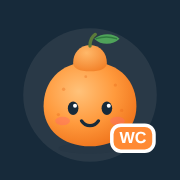
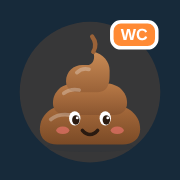
제주시/서귀포시 필터, 언어 국기, 똥 음성, 똥글이 마스코트
Claude-Session: https://claude.ai/code/session_01JSmxVuWfukSifyxiD32poQ

diff --git a/js/i18n.js b/js/i18n.js
@@ -1,5 +1,5 @@
 // 제주 공중화장실 — 다국어 사전 (KO / EN / ZH / JA)
-export const LANG_LABELS = { ko: "한국어", en: "EN", zh: "中文", ja: "日本語" };
+export const LANG_LABELS = { ko: "🇰🇷 한국어", en: "🇺🇸 EN", zh: "🇨🇳 中文", ja: "🇯🇵 日本語" };
 export const HTML_LANG = { ko: "ko-KR", en: "en-US", zh: "zh-CN", ja: "ja-JP" };
 
 export const DICT = {
@@ -8,9 +8,9 @@ export const DICT = {
     common: { close: "닫기", available: "있음", unavailable: "없음", unknown: "정보 없음", km: "km", meters: "m", official: "제주 공식 데이터", more: "더 보기" },
     header: { language: "언어 선택", skip: "지도와 검색으로 바로가기" },
     search: { label: "화장실 검색", placeholder: "장소, 화장실 이름, 주소 검색", results: "곳", noResults: "조건에 맞는 화장실이 없어요", clear: "검색 지우기" },
-    filters: { label: "편의시설 필터", all: "전체", openNow: "지금 이용", open24h: "24시간", wheelchair: "휠체어", diaper: "기저귀 교환대", emergency: "비상벨", olle: "올레길" },
+    filters: { label: "편의시설 필터", all: "전체", openNow: "지금 이용", open24h: "24시간", wheelchair: "휠체어", diaper: "기저귀 교환대", emergency: "비상벨", olle: "올레길", jejuCity: "제주시", seogwipo: "서귀포시" },
     map: { label: "제주 공중화장실 지도", locate: "내 위치로 이동", locationFound: "현재 위치를 찾았어요", locationFallback: "위치를 확인할 수 없어 제주시청을 기준으로 보여드려요", toiletMarker: "화장실 위치", officialCount: "곳 · 공식 데이터", offline: "지도를 불러오지 못해 간단 지도로 보여드려요" },
-    mascot: { name: "귤랑이", prompt: "톡 누르면 바로 장실!", sound: "장실!", aria: "귤랑이 음성 재생: 장실!" },
+    mascot: { name: "똥글이", prompt: "톡 누르면 바로 똥!", sound: "똥!", aria: "똥글이 음성 재생: 똥!" },
     detail: { distance: "현재 위치에서", walk: "도보", drive: "차량", minutes: "분", estimate: "예상", hours: "운영시간", open: "이용 가능", closed: "운영 종료", unknownStatus: "운영 확인 필요", limited: "시간제 운영", maintenance: "점검·운영중지", microTip: "찾아가는 팁", tipTemplate: "{type} 시설 안에 있어요. 현장 화장실 안내 표지를 확인하세요.", facilities: "접근성·시설", safety: "안전·보안", tourism: "제주 여행 편의", cleanliness: "청결 만족도", noReviews: "아직 평가가 없어요", reviews: "개 후기", yourRating: "나의 별점", rate: "점 주기", ratingSaved: "별점이 저장되었어요", reviewPlaceholder: "예: 깨끗하고 휴지가 넉넉해요", submitReview: "후기 등록", reviewSaved: "한줄 후기가 저장되었어요", reviewRequired: "별점과 한줄 후기를 입력해 주세요", reviewLocal: "후기는 이 기기에만 저장돼요", directions: "길찾기", google: "Google 지도", kakao: "카카오맵", naver: "네이버지도", updated: "데이터 기준", report: "정보 수정 제안", reportMessage: "현장과 공식 정보가 다르면 관리기관에 알려 주세요.", geocoded: "위치는 주소로 찾은 좌표예요. 현장과 조금 다를 수 있어요." },
     facilities: { wheelchair: "휠체어·장애인 화장실", genderSeparated: "남녀 분리", diaper: "기저귀 교환대", toddlerSeat: "어린이용 변기", toiletPaper: "화장지", bidet: "비데", emergency: "비상벨", emergencyLinked: "긴급기관 연계", illegalCamera: "불법촬영 점검", safetyMirror: "안심거울", cctv: "입구 CCTV", open24h: "24시간 운영", olle: "제주올레", parking: "주차장", ev: "전기차 충전" },
     nav: { map: "지도", list: "홈", guide: "이용 안내" },
@@ -23,9 +23,9 @@ export const DICT = {
     common: { close: "Close", available: "Available", unavailable: "Not available", unknown: "No data", km: "km", meters: "m", official: "Official Jeju data", more: "Show more" },
     header: { language: "Select language", skip: "Skip to map and search" },
     search: { label: "Search toilets", placeholder: "Search place, toilet, or address", results: "places", noResults: "No toilets match these filters", clear: "Clear search" },
-    filters: { label: "Facility filters", all: "All", openNow: "Open now", open24h: "24 hours", wheelchair: "Wheelchair", diaper: "Baby change", emergency: "Emergency bell", olle: "Olle Trail" },
+    filters: { label: "Facility filters", all: "All", openNow: "Open now", open24h: "24 hours", wheelchair: "Wheelchair", diaper: "Baby change", emergency: "Emergency bell", olle: "Olle Trail", jejuCity: "Jeju City", seogwipo: "Seogwipo" },
     map: { label: "Jeju public toilet map", locate: "Go to my location", locationFound: "Your location was found", locationFallback: "Location unavailable. Showing distances from Jeju City Hall", toiletMarker: "Toilet location", officialCount: "official records", offline: "Map tiles unavailable — showing a simple map" },
-    mascot: { name: "Gyul-rang", prompt: "Tap for instant Jang-sil!", sound: "Jang-sil!", aria: "Play Gyul-rang's voice: Jang-sil!" },
+    mascot: { name: "Ddonggeul", prompt: "Tap for an instant Ddong!", sound: "Ddong!", aria: "Play Ddonggeul's voice: Ddong!" },
     detail: { distance: "from your location", walk: "walk", drive: "drive", minutes: " min", estimate: "est.", hours: "Opening hours", open: "Open now", closed: "Closed", unknownStatus: "Check hours", limited: "Limited hours", maintenance: "Maintenance/closed", microTip: "Location tip", tipTemplate: "Located at a facility of type: {type}. Look for restroom signs on site.", facilities: "Access & facilities", safety: "Safety & security", tourism: "Jeju travel", cleanliness: "Cleanliness rating", noReviews: "No ratings yet", reviews: "reviews", yourRating: "Your rating", rate: "stars", ratingSaved: "Your rating was saved", reviewPlaceholder: "e.g. Clean and well-supplied", submitReview: "Post review", reviewSaved: "Your one-line review was saved", reviewRequired: "Add a star rating and one-line review", reviewLocal: "Reviews are saved on this device only", directions: "Directions", google: "Google Maps", kakao: "Kakao Map", naver: "Naver Map", updated: "Data date", report: "Suggest an update", reportMessage: "Contact the managing organization if the official record differs from the site.", geocoded: "Location estimated from the address and may be slightly off." },
     facilities: { wheelchair: "Wheelchair/disabled toilet", genderSeparated: "Male/female separated", diaper: "Diaper station", toddlerSeat: "Child toilet", toiletPaper: "Toilet paper", bidet: "Bidet", emergency: "Emergency bell", emergencyLinked: "Emergency-system link", illegalCamera: "Hidden-camera checked", safetyMirror: "Safety mirror", cctv: "Entrance CCTV", open24h: "Open 24/7", olle: "Jeju Olle", parking: "Parking", ev: "EV charging" },
     nav: { map: "Map", list: "Home", guide: "Guide" },
@@ -38,9 +38,9 @@ export const DICT = {
     common: { close: "关闭", available: "有", unavailable: "无", unknown: "暂无数据", km: "公里", meters: "米", official: "济州官方数据", more: "查看更多" },
     header: { language: "选择语言", skip: "直接前往地图和搜索" },
     search: { label: "搜索厕所", placeholder: "搜索地点、厕所名称或地址", results: "处", noResults: "没有符合条件的厕所", clear: "清除搜索" },
-    filters: { label: "设施筛选", all: "全部", openNow: "正在开放", open24h: "24小时", wheelchair: "轮椅通行", diaper: "尿布台", emergency: "紧急铃", olle: "偶来小路" },
+    filters: { label: "设施筛选", all: "全部", openNow: "正在开放", open24h: "24小时", wheelchair: "轮椅通行", diaper: "尿布台", emergency: "紧急铃", olle: "偶来小路", jejuCity: "济州市", seogwipo: "西归浦市" },
     map: { label: "济州公共厕所地图", locate: "前往我的位置", locationFound: "已找到您的位置", locationFallback: "无法获取位置，距离以济州市厅为基准", toiletMarker: "厕所位置", officialCount: "条官方数据", offline: "无法加载地图，显示简易地图" },
-    mascot: { name: "橘朗", prompt: "点击立即播放 Jang-sil!", sound: "Jang-sil!", aria: "播放橘朗语音 Jang-sil" },
+    mascot: { name: "便便君", prompt: "点一下就“咚”！", sound: "Ddong!", aria: "播放便便君语音 Ddong" },
     detail: { distance: "距您的位置", walk: "步行", drive: "驾车", minutes: "分钟", estimate: "预计", hours: "开放时间", open: "正在开放", closed: "已关闭", unknownStatus: "请确认时间", limited: "限时开放", maintenance: "维护/暂停", microTip: "位置提示", tipTemplate: "设施类型：{type}。请留意现场厕所指示牌。", facilities: "无障碍与设施", safety: "安全与安保", tourism: "济州旅行", cleanliness: "清洁评分", noReviews: "暂无评分", reviews: "条评价", yourRating: "您的评分", rate: "星", ratingSaved: "评分已保存", reviewPlaceholder: "例如：干净且用品充足", submitReview: "提交评价", reviewSaved: "一句话评价已保存", reviewRequired: "请选择星级并填写一句话评价", reviewLocal: "评价仅保存在本设备", directions: "路线", google: "Google 地图", kakao: "Kakao 地图", naver: "Naver 地图", updated: "数据日期", report: "建议更新信息", reportMessage: "若现场与官方记录不同，请联系管理机构。", geocoded: "位置根据地址推算，可能略有偏差。" },
     facilities: { wheelchair: "轮椅/无障碍厕所", genderSeparated: "男女分开", diaper: "尿布台", toddlerSeat: "儿童坐便器", toiletPaper: "卫生纸", bidet: "智能马桶", emergency: "紧急呼叫铃", emergencyLinked: "紧急系统联动", illegalCamera: "偷拍设备检查", safetyMirror: "安全镜", cctv: "入口监控", open24h: "24小时开放", olle: "济州偶来", parking: "停车场", ev: "电动车充电" },
     nav: { map: "地图", list: "首页", guide: "使用指南" },
@@ -53,9 +53,9 @@ export const DICT = {
     common: { close: "閉じる", available: "あり", unavailable: "なし", unknown: "情報なし", km: "km", meters: "m", official: "済州公式データ", more: "もっと見る" },
     header: { language: "言語を選択", skip: "地図と検索へ移動" },
     search: { label: "トイレを検索", placeholder: "場所・トイレ名・住所を検索", results: "件", noResults: "条件に合うトイレがありません", clear: "検索をクリア" },
-    filters: { label: "設備フィルター", all: "すべて", openNow: "営業中", open24h: "24時間", wheelchair: "車いす", diaper: "おむつ交換台", emergency: "非常ベル", olle: "オルレ" },
+    filters: { label: "設備フィルター", all: "すべて", openNow: "営業中", open24h: "24時間", wheelchair: "車いす", diaper: "おむつ交換台", emergency: "非常ベル", olle: "オルレ", jejuCity: "済州市", seogwipo: "西帰浦市" },
     map: { label: "済州公衆トイレ地図", locate: "現在地へ移動", locationFound: "現在地を確認しました", locationFallback: "位置情報を取得できないため、済州市庁からの距離を表示します", toiletMarker: "トイレの場所", officialCount: "件の公式データ", offline: "地図を読み込めないため簡易地図を表示します" },
-    mascot: { name: "ギュルラン", prompt: "タップですぐチャンシル！", sound: "チャンシル！", aria: "ギュルランの音声を再生：チャンシル！" },
+    mascot: { name: "トングリ", prompt: "タップですぐトン！", sound: "トン！", aria: "トングリの音声を再生：トン！" },
     detail: { distance: "現在地から", walk: "徒歩", drive: "車", minutes: "分", estimate: "目安", hours: "営業時間", open: "営業中", closed: "営業時間外", unknownStatus: "時間を要確認", limited: "時間限定", maintenance: "点検・休止", microTip: "場所のヒント", tipTemplate: "施設の種類：{type}。現地のトイレ案内表示をご確認ください。", facilities: "バリアフリー・設備", safety: "安全・防犯", tourism: "済州旅行", cleanliness: "清潔度評価", noReviews: "まだ評価がありません", reviews: "件の口コミ", yourRating: "あなたの評価", rate: "つ星", ratingSaved: "評価を保存しました", reviewPlaceholder: "例：清潔で備品も十分です", submitReview: "口コミ投稿", reviewSaved: "ひとこと口コミを保存しました", reviewRequired: "星評価とひとことを入力してください", reviewLocal: "口コミはこの端末にのみ保存されます", directions: "経路案内", google: "Google マップ", kakao: "Kakaoマップ", naver: "NAVERマップ", updated: "データ基準日", report: "情報の修正を提案", reportMessage: "現地と公式情報が異なる場合は管理機関へご連絡ください。", geocoded: "位置は住所から推定しています。多少ずれる場合があります。" },
     facilities: { wheelchair: "車いす・障害者トイレ", genderSeparated: "男女別", diaper: "おむつ交換台", toddlerSeat: "子ども用便器", toiletPaper: "トイレットペーパー", bidet: "温水洗浄便座", emergency: "非常ベル", emergencyLinked: "緊急システム連携", illegalCamera: "盗撮点検", safetyMirror: "安心ミラー", cctv: "入口CCTV", open24h: "24時間営業", olle: "済州オルレ", parking: "駐車場", ev: "EV充電" },
     nav: { map: "地図", list: "ホーム", guide: "利用案内" },

diff --git a/js/app.js b/js/app.js
@@ -16,6 +16,7 @@ const state = {
   view: "list",
   query: "",
   filter: "all",
+  region: "all",
   toilets: [],
   meta: null,
   loadError: null,
@@ -83,6 +84,7 @@ function filtered() {
   return state.toilets
     .filter((x) => {
       if (q && ![x.name, x.address, x.lotAddress, x.dong, x.type, x.org, x.olle ? `올레 olle ${x.olle}` : ""].some((v) => String(v || "").toLowerCase().includes(q))) return false;
+      if (state.region !== "all" && x.provider !== state.region) return false;
       switch (state.filter) {
         case "openNow": return isOpenNow(x) === true;
         case "open24h": return x.open24h;
@@ -108,19 +110,32 @@ const dirUrls = (x) => {
 };
 
 // ---------- 소리 (귤랑이) ----------
-const voice = new Audio("jangsil.wav");
-voice.preload = "auto";
-function speakFallback() {
+// 똥글이 소리: 짧은 "뽁" 효과음 + 음성 "똥!" (ddong.mp3 녹음 파일을 넣으면 그걸 우선 재생)
+let customVoice = null;
+fetch("ddong.mp3", { method: "HEAD" }).then((r) => { if (r.ok) { customVoice = new Audio("ddong.mp3"); customVoice.preload = "auto"; } }).catch(() => {});
+let actx = null;
+function popSound() {
+  try {
+    actx = actx || new (window.AudioContext || window.webkitAudioContext)();
+    if (actx.state === "suspended") actx.resume();
+    const o = actx.createOscillator(), g = actx.createGain(), now = actx.currentTime;
+    o.type = "sine"; o.frequency.setValueAtTime(520, now); o.frequency.exponentialRampToValueAtTime(140, now + 0.16);
+    g.gain.setValueAtTime(0.0001, now); g.gain.exponentialRampToValueAtTime(0.35, now + 0.01); g.gain.exponentialRampToValueAtTime(0.0001, now + 0.18);
+    o.connect(g).connect(actx.destination); o.start(now); o.stop(now + 0.2);
+  } catch {}
+}
+function speakDdong() {
   if (!("speechSynthesis" in window)) return;
   speechSynthesis.cancel();
-  const u = new SpeechSynthesisUtterance("장실!");
-  u.lang = "ko-KR"; u.pitch = 1.75; u.rate = 1.25;
+  const u = new SpeechSynthesisUtterance("똥!");
+  u.lang = "ko-KR"; u.pitch = 1.6; u.rate = 1.2;
   const v = speechSynthesis.getVoices().find((v) => v.lang.toLowerCase().startsWith("ko"));
   if (v) u.voice = v;
   speechSynthesis.speak(u);
 }
 function playMascot(el) {
-  try { voice.pause(); voice.currentTime = 0; voice.play().catch(speakFallback); } catch { speakFallback(); }
+  if (customVoice) { try { customVoice.pause(); customVoice.currentTime = 0; customVoice.play().catch(() => { popSound(); speakDdong(); }); } catch { popSound(); speakDdong(); } }
+  else { popSound(); speakDdong(); }
   $("#live").textContent = t("mascot.sound");
   document.querySelectorAll(".mascot-btn, .mascot-round").forEach((b) => b.classList.add("speaking"));
   document.querySelectorAll(".bubble strong").forEach((s) => (s.textContent = t("mascot.sound")));
@@ -167,9 +182,14 @@ function fillIcons(root = document) {
   root.querySelectorAll("[data-icon]").forEach((el) => { el.outerHTML = icon(el.dataset.icon); });
 }
 
-const FILTERS = [["all", "sparkles"], ["openNow", "clock"], ["open24h", "clock"], ["wheelchair", "wheelchair"], ["diaper", "baby"], ["emergency", "bell"], ["olle", "feet"]];
+const REGIONS = [["제주시", "jejuCity"], ["서귀포시", "seogwipo"]];
+const FILTERS = [["openNow", "clock"], ["open24h", "clock"], ["wheelchair", "wheelchair"], ["diaper", "baby"], ["emergency", "bell"], ["olle", "feet"]];
 function renderFilters() {
-  $("#filters").innerHTML = FILTERS.map(([k, ic]) => `<button type="button" class="chip" data-filter="${k}" aria-pressed="${state.filter === k}">${icon(ic)}${esc(t(`filters.${k}`))}</button>`).join("");
+  const allOn = state.filter === "all" && state.region === "all";
+  $("#filters").innerHTML = `<button type="button" class="chip" data-filter="all" aria-pressed="${allOn}">${icon("sparkles")}${esc(t("filters.all"))}</button>`
+    + REGIONS.map(([v, k]) => `<button type="button" class="chip chip-region" data-region="${v}" aria-pressed="${state.region === v}">${icon("pin")}${esc(t(`filters.${k}`))}</button>`).join("")
+    + `<span class="chip-sep" aria-hidden="true"></span>`
+    + FILTERS.map(([k, ic]) => `<button type="button" class="chip" data-filter="${k}" aria-pressed="${state.filter === k}">${icon(ic)}${esc(t(`filters.${k}`))}</button>`).join("");
 }
 function renderNav() {
   const items = [["list", "house"], ["map", "map"], ["guide", "info"]];
@@ -473,7 +493,7 @@ function setView(v, keepSelection = false) {
 
 // ---------- 이벤트 ----------
 document.addEventListener("click", (e) => {
-  const b = e.target.closest("[data-open],[data-showmap],[data-act],[data-filter],[data-view],[data-rate]");
+  const b = e.target.closest("[data-open],[data-showmap],[data-act],[data-filter],[data-region],[data-view],[data-rate]");
   if (!b) return;
   if (b.dataset.open) { select(b.dataset.open); return; }
   if (b.dataset.showmap) {
@@ -482,7 +502,8 @@ document.addEventListener("click", (e) => {
     if (x && map) setTimeout(() => focusOnMap(x), 60);
     return;
   }
-  if (b.dataset.filter) { state.filter = b.dataset.filter; state.shown = PAGE; if (state.selectedId && !filtered().some((x) => x.id === state.selectedId)) state.selectedId = null; render(); return; }
+  if (b.dataset.region) { state.region = state.region === b.dataset.region ? "all" : b.dataset.region; state.shown = PAGE; if (state.selectedId && !filtered().some((x) => x.id === state.selectedId)) state.selectedId = null; render(); return; }
+  if (b.dataset.filter) { if (b.dataset.filter === "all") state.region = "all"; state.filter = (b.dataset.filter !== "all" && state.filter === b.dataset.filter) ? "all" : b.dataset.filter; state.shown = PAGE; if (state.selectedId && !filtered().some((x) => x.id === state.selectedId)) state.selectedId = null; render(); return; }
   if (b.dataset.view) { setView(b.dataset.view); return; }
   if (b.dataset.rate) {
     state.ratings[state.selectedId] = Number(b.dataset.rate); store.set(LS.ratings, state.ratings);

diff --git a/js/icons.js b/js/icons.js
@@ -42,22 +42,24 @@ export function icon(name, cls = "ic", extra = "") {
 
 // 귤랑이: 한라봉 모양 오리지널 마스코트 (SVG)
 let mascotSeq = 0;
+// 똥글이: 세 단 소용돌이 똥 모양 오리지널 마스코트
 export const mascotSvg = () => { const k = `m${++mascotSeq}`; return `<svg viewBox="0 0 120 120" aria-hidden="true" class="mascot-svg">
   <defs>
-    <radialGradient id="${k}b" cx="38%" cy="35%" r="70%"><stop offset="0" stop-color="#FFC27A"/><stop offset=".55" stop-color="#FF9A3D"/><stop offset="1" stop-color="#F0741C"/></radialGradient>
-    <radialGradient id="${k}t" cx="40%" cy="30%" r="80%"><stop offset="0" stop-color="#FFB869"/><stop offset="1" stop-color="#F27E25"/></radialGradient>
+    <linearGradient id="${k}a" x1="0" y1="0" x2="0" y2="1"><stop offset="0" stop-color="#A86B3C"/><stop offset="1" stop-color="#7A4A26"/></linearGradient>
+    <linearGradient id="${k}b" x1="0" y1="0" x2="0" y2="1"><stop offset="0" stop-color="#B97A47"/><stop offset="1" stop-color="#8B5630"/></linearGradient>
+    <linearGradient id="${k}c" x1="0" y1="0" x2="0" y2="1"><stop offset="0" stop-color="#C98B55"/><stop offset="1" stop-color="#9A6238"/></linearGradient>
   </defs>
-  <ellipse cx="60" cy="112" rx="30" ry="5" fill="#172A3A" opacity=".12"/>
-  <path d="M60 30c-30 0-44 20-44 42 0 22 18 38 44 38s44-16 44-38c0-22-14-42-44-42Z" fill="url(#${k}b)"/>
-  <path d="M60 14c-10 0-16 8-16 17 0 5 6 8 16 8s16-3 16-8c0-9-6-17-16-17Z" fill="url(#${k}t)"/>
-  <path d="M60 15c0-6 2-9 5-11" stroke="#5B7B3A" stroke-width="3.2" stroke-linecap="round" fill="none"/>
-  <path d="M64 8c8-6 19-5 24 0-6 6-17 7-24 0Z" fill="#4FA35A"/>
-  <path d="M66 8c6-2 13-2 19 0" stroke="#2F7A3F" stroke-width="1.4" fill="none" stroke-linecap="round"/>
-  <g fill="#E8691A" opacity=".35"><circle cx="35" cy="56" r="1.6"/><circle cx="84" cy="52" r="1.6"/><circle cx="90" cy="76" r="1.6"/><circle cx="30" cy="80" r="1.6"/><circle cx="56" cy="44" r="1.4"/></g>
-  <ellipse cx="44" cy="74" rx="5" ry="6.4" fill="#172A3A"/><ellipse cx="76" cy="74" rx="5" ry="6.4" fill="#172A3A"/>
-  <circle cx="45.8" cy="71.6" r="1.9" fill="#fff"/><circle cx="77.8" cy="71.6" r="1.9" fill="#fff"/>
-  <ellipse cx="34" cy="86" rx="7" ry="4" fill="#FF6B6B" opacity=".45"/><ellipse cx="86" cy="86" rx="7" ry="4" fill="#FF6B6B" opacity=".45"/>
-  <path d="M52 86c4 6 12 6 16 0" stroke="#172A3A" stroke-width="3.2" stroke-linecap="round" fill="none"/>
+  <ellipse cx="60" cy="112" rx="40" ry="5" fill="#172A3A" opacity=".12"/>
+  <path d="M14 96c0-14 12-22 24-22h44c12 0 24 8 24 22 0 9-7 14-16 14H30c-9 0-16-5-16-14Z" fill="url(#${k}a)"/>
+  <path d="M26 72c0-11 9-18 19-18h30c10 0 19 7 19 18 0 7-5 11-12 11H38c-7 0-12-4-12-11Z" fill="url(#${k}b)"/>
+  <path d="M38 52c0-9 7-15 15-15h6c4-1 6-6 4-12 9 2 15 9 15 17 0 7 0 10-1 12-1 5-5 8-10 8H48c-6 0-10-4-10-10Z" fill="url(#${k}c)"/>
+  <path d="M63 25c3-5 2-10-1-14" stroke="#9A6238" stroke-width="4" stroke-linecap="round" fill="none"/>
+  <path d="M48 44c3-3 7-4 11-3M36 63c4-3 9-4 14-3M24 87c5-4 12-5 18-4" stroke="#fff" stroke-opacity=".28" stroke-width="3.5" stroke-linecap="round" fill="none"/>
+  <ellipse cx="46" cy="86" rx="5.2" ry="6.6" fill="#fff"/><ellipse cx="74" cy="86" rx="5.2" ry="6.6" fill="#fff"/>
+  <ellipse cx="47" cy="87.5" rx="3.4" ry="4.4" fill="#2A1A10"/><ellipse cx="75" cy="87.5" rx="3.4" ry="4.4" fill="#2A1A10"/>
+  <circle cx="48.3" cy="85.6" r="1.3" fill="#fff"/><circle cx="76.3" cy="85.6" r="1.3" fill="#fff"/>
+  <ellipse cx="35" cy="97" rx="6" ry="3.4" fill="#FF7A7A" opacity=".55"/><ellipse cx="85" cy="97" rx="6" ry="3.4" fill="#FF7A7A" opacity=".55"/>
+  <path d="M53 97c4 5 10 5 14 0" stroke="#2A1A10" stroke-width="3.2" stroke-linecap="round" fill="none"/>
 </svg>`; };
 
-export const PIN_HTML = `<div class="pin"><div class="pin-body"><svg viewBox="0 0 24 24" aria-hidden="true"><circle cx="12" cy="13.5" r="7.5" fill="#FFB25E"/><path d="M12 6.5c-2 0-3 1.4-3 2.7 0 .8 1.4 1.2 3 1.2s3-.4 3-1.2c0-1.3-1-2.7-3-2.7Z" fill="#FFC27A"/><path d="M12.6 6.8c1.6-1.4 3.6-1.2 4.4-.2-1.2 1.2-3.2 1.3-4.4.2Z" fill="#4FA35A"/><circle cx="9.6" cy="14" r="1" fill="#172A3A"/><circle cx="14.4" cy="14" r="1" fill="#172A3A"/><path d="M10.6 16.4c.8.8 2 .8 2.8 0" stroke="#172A3A" stroke-width=".9" fill="none" stroke-linecap="round"/></svg></div><span class="pin-tag">WC</span></div>`;
+export const PIN_HTML = `<div class="pin"><div class="pin-body"><svg viewBox="0 0 24 24" aria-hidden="true"><path d="M4 18.2c0-2.6 2.2-4 4.4-4h7.2c2.2 0 4.4 1.4 4.4 4 0 1.6-1.3 2.6-3 2.6H7c-1.7 0-3-1-3-2.6Z" fill="#8B5630"/><path d="M6.3 13.8c0-2 1.6-3.2 3.4-3.2h4.6c1.8 0 3.4 1.2 3.4 3.2 0 1.3-.9 2-2.2 2H8.5c-1.3 0-2.2-.7-2.2-2Z" fill="#A86B3C"/><path d="M8.6 10c0-1.6 1.3-2.7 2.7-2.7h.8c.8-.2 1.1-1.1.7-2.1 1.6.4 2.6 1.6 2.6 3 0 1.2-.4 2.4-1.9 2.4h-3c-1.1 0-1.9-.4-1.9-.6Z" fill="#C98B55"/><circle cx="9.8" cy="17.2" r=".95" fill="#2A1A10"/><circle cx="14.2" cy="17.2" r=".95" fill="#2A1A10"/><path d="M10.9 19.1c.6.6 1.6.6 2.2 0" stroke="#2A1A10" stroke-width=".8" fill="none" stroke-linecap="round"/></svg></div><span class="pin-tag">WC</span></div>`;

diff --git a/sw.js b/sw.js
@@ -1,6 +1,6 @@
 // 오프라인용 서비스워커: 앱 화면은 캐시 우선, 데이터는 네트워크 우선
-const CACHE = "jeju-toilet-v4";
-const SHELL = ["./", "index.html", "css/app.css", "js/app.js", "js/i18n.js", "js/icons.js", "jangsil.wav", "manifest.webmanifest", "icons/icon.svg", "icons/icon-192.png", "icons/icon-512.png"];
+const CACHE = "jeju-toilet-v5";
+const SHELL = ["./", "index.html", "css/app.css", "js/app.js", "js/i18n.js", "js/icons.js", "manifest.webmanifest", "icons/icon.svg", "icons/icon-192.png", "icons/icon-512.png"];
 self.addEventListener("install", (e) => { e.waitUntil(caches.open(CACHE).then((c) => c.addAll(SHELL)).then(() => self.skipWaiting())); });
 self.addEventListener("activate", (e) => { e.waitUntil(caches.keys().then((ks) => Promise.all(ks.filter((k) => k !== CACHE).map((k) => caches.delete(k)))).then(() => self.clients.claim())); });
 self.addEventListener("fetch", (e) => {

diff --git a/css/app.css b/css/app.css
@@ -380,3 +380,6 @@ main { position: relative; flex: 1; min-height: 0; outline: none; }
 .loc-st.locating { background: rgba(255,209,139,.18); color: #FFD9A0; }
 .loc-st.fallback { background: rgba(255,154,115,.2); color: #FFB59A; }
 .pills { gap: 6px; }
+.chip-sep { flex-shrink: 0; width: 1px; height: 24px; align-self: center; background: #D3DEDC; margin: 0 2px; }
+.chip-region[aria-pressed="true"] { background: var(--hallabong); border-color: var(--hallabong); box-shadow: 0 7px 14px rgba(255,138,52,.25); }
+.chip-region[aria-pressed="true"] .ic { color: #fff; }
